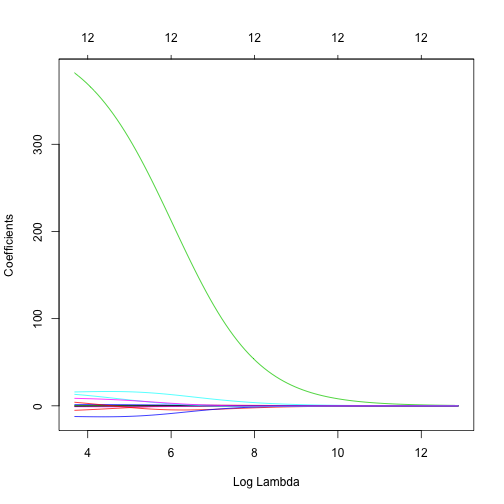
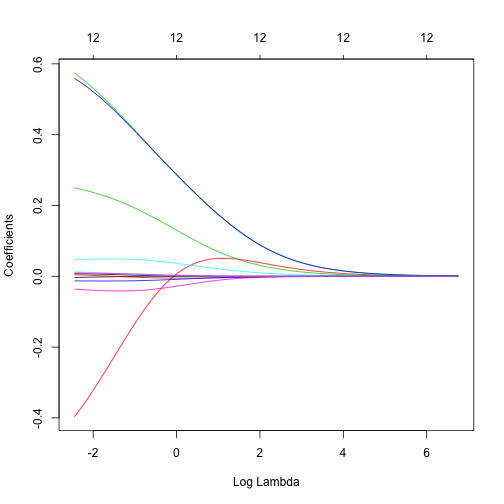
update

diff --git a/docs/slides/12_Ridge/12_Ridge_slides.html b/docs/slides/12_Ridge/12_Ridge_slides.html
@@ -27,6 +27,7 @@ class: center, middle, inverse, title-slide
 * Problem 2: overfitting
 * Problem 3: high-dimensional data
 * Ridge regression
+* Bias-variance decomposition
 
 ---
 
@@ -462,7 +463,7 @@ intercept=TRUE # default
 
 ```r
 library(glmnet)
-fit = glmnet(Xraw, yraw, alpha = 0, family="gaussian")
+fit = glmnet(X, y, alpha = 0, family="gaussian")
 # solution path
 plot(fit, xvar="lambda")
 ```
@@ -470,6 +471,104 @@ plot(fit, xvar="lambda")
 ![](12_Ridge_slides_files/figure-html/unnamed-chunk-12-1.png)&lt;!-- --&gt;
 
 ---
+
+
+```r
+plot(fit, xvar="norm")
+```
+
+![](12_Ridge_slides_files/figure-html/unnamed-chunk-13-1.png)&lt;!-- --&gt;
+
+---
+
+
+```r
+fit = glmnet(Xraw, yraw, alpha = 0, family="gaussian")
+# solution path
+plot(fit, xvar="lambda")
+```
+
+![](12_Ridge_slides_files/figure-html/unnamed-chunk-14-1.png)&lt;!-- --&gt;
+
+---
+
+# Choice of the penalty parameter
+
+* Throughout the introduction of ridge regression and the
+subsequent discussion of its properties the penalty parameter is considered known or `given'
+
+* In practice, it is unknown and the user needs to make an
+informed decision on its value
+
+* Cross-validation
+
+* Generalized cross-validation
+
+---
+
+
+```r
+# K-fold cross validation
+K &lt;- 5
+fit.cv &lt;-cv.glmnet(Xraw,yraw,alpha=0, nfolds = K)
+plot(fit.cv)
+```
+
+![](12_Ridge_slides_files/figure-html/unnamed-chunk-15-1.png)&lt;!-- --&gt;
+
+---
+
+
+```r
+# lambda selected by K fold cross validation
+hatlambda &lt;-fit.cv$lambda.min
+hatlambda
+```
+
+```
+[1] 43.52271
+```
+
+---
+
+
+```r
+predict(fit.cv, s=hatlambda, type ="coefficients")
+```
+
+```
+14 x 1 sparse Matrix of class "dgCMatrix"
+                               1
+(Intercept)        -402.60719884
+(Intercept)           .         
+X1                    0.02924725
+Income               -4.99082034
+Limit                 0.11279528
+Rating                1.64037760
+Cards                15.99116103
+Age                  -0.98501420
+Education            -0.44648608
+GenderMale            3.72864011
+StudentYes          378.50094637
+MarriedYes          -12.32909002
+EthnicityAsian       12.83254912
+EthnicityCaucasian    8.48895335
+```
+
+---
+
+
+
+```r
+plot(fit, xvar="lambda")
+abline(v=log(hatlambda))
+```
+
+![](12_Ridge_slides_files/figure-html/unnamed-chunk-18-1.png)&lt;!-- --&gt;
+
+---
+
+# Collinearity
 
 True model
 
@@ -504,6 +603,26 @@ lm.ridge(y~x1+x2, lambda=1)
 
 * It can be shown that ridge regression improves the estimates for the coefficients of strongly positively correlated predictors with similar true coefficients 
 
+
+---
+
+# High-dimensional data
+
+
+```r
+X = model.matrix(lm(y ~ . ,Riboflavin))
+fit = glmnet(X,riboflavin$y, alpha=0, family="gaussian")
+plot(fit, xvar="lambda")
+```
+
+![](12_Ridge_slides_files/figure-html/unnamed-chunk-20-1.png)&lt;!-- --&gt;
+
+---
+
+layout: false
+class: inverse, middle, center
+
+# Bias-variance decomposition
 
 ---
     </textarea>
